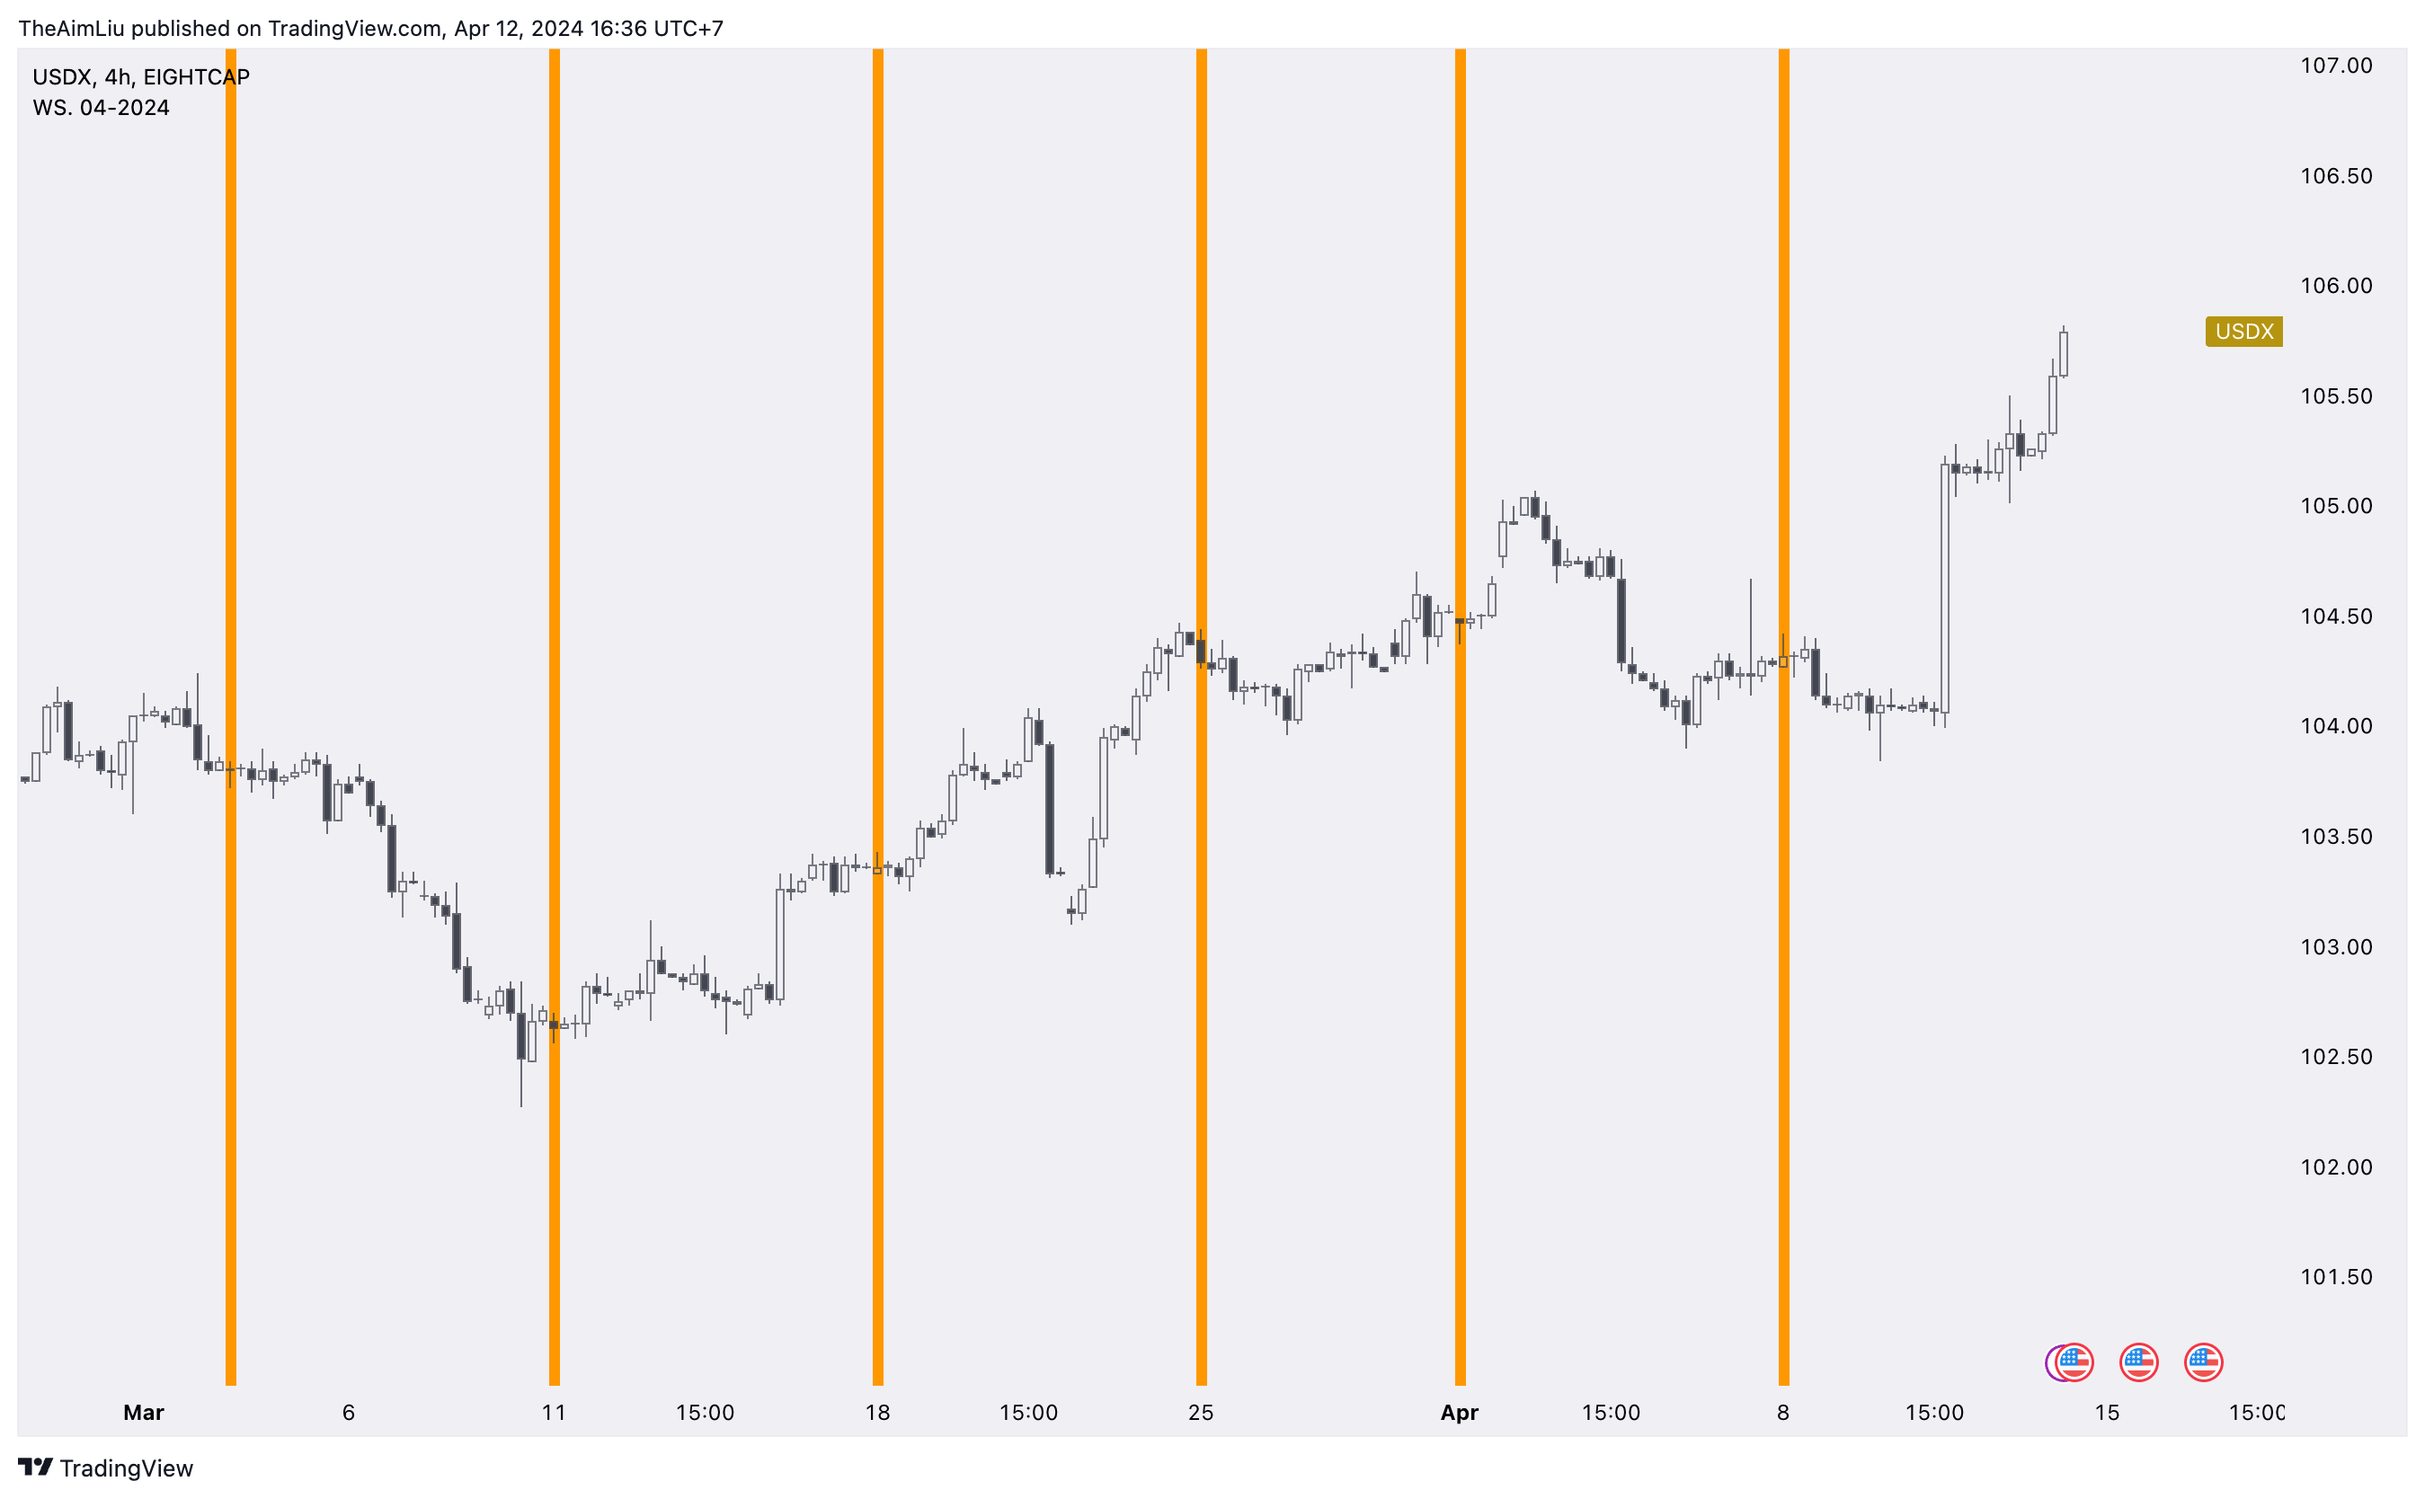
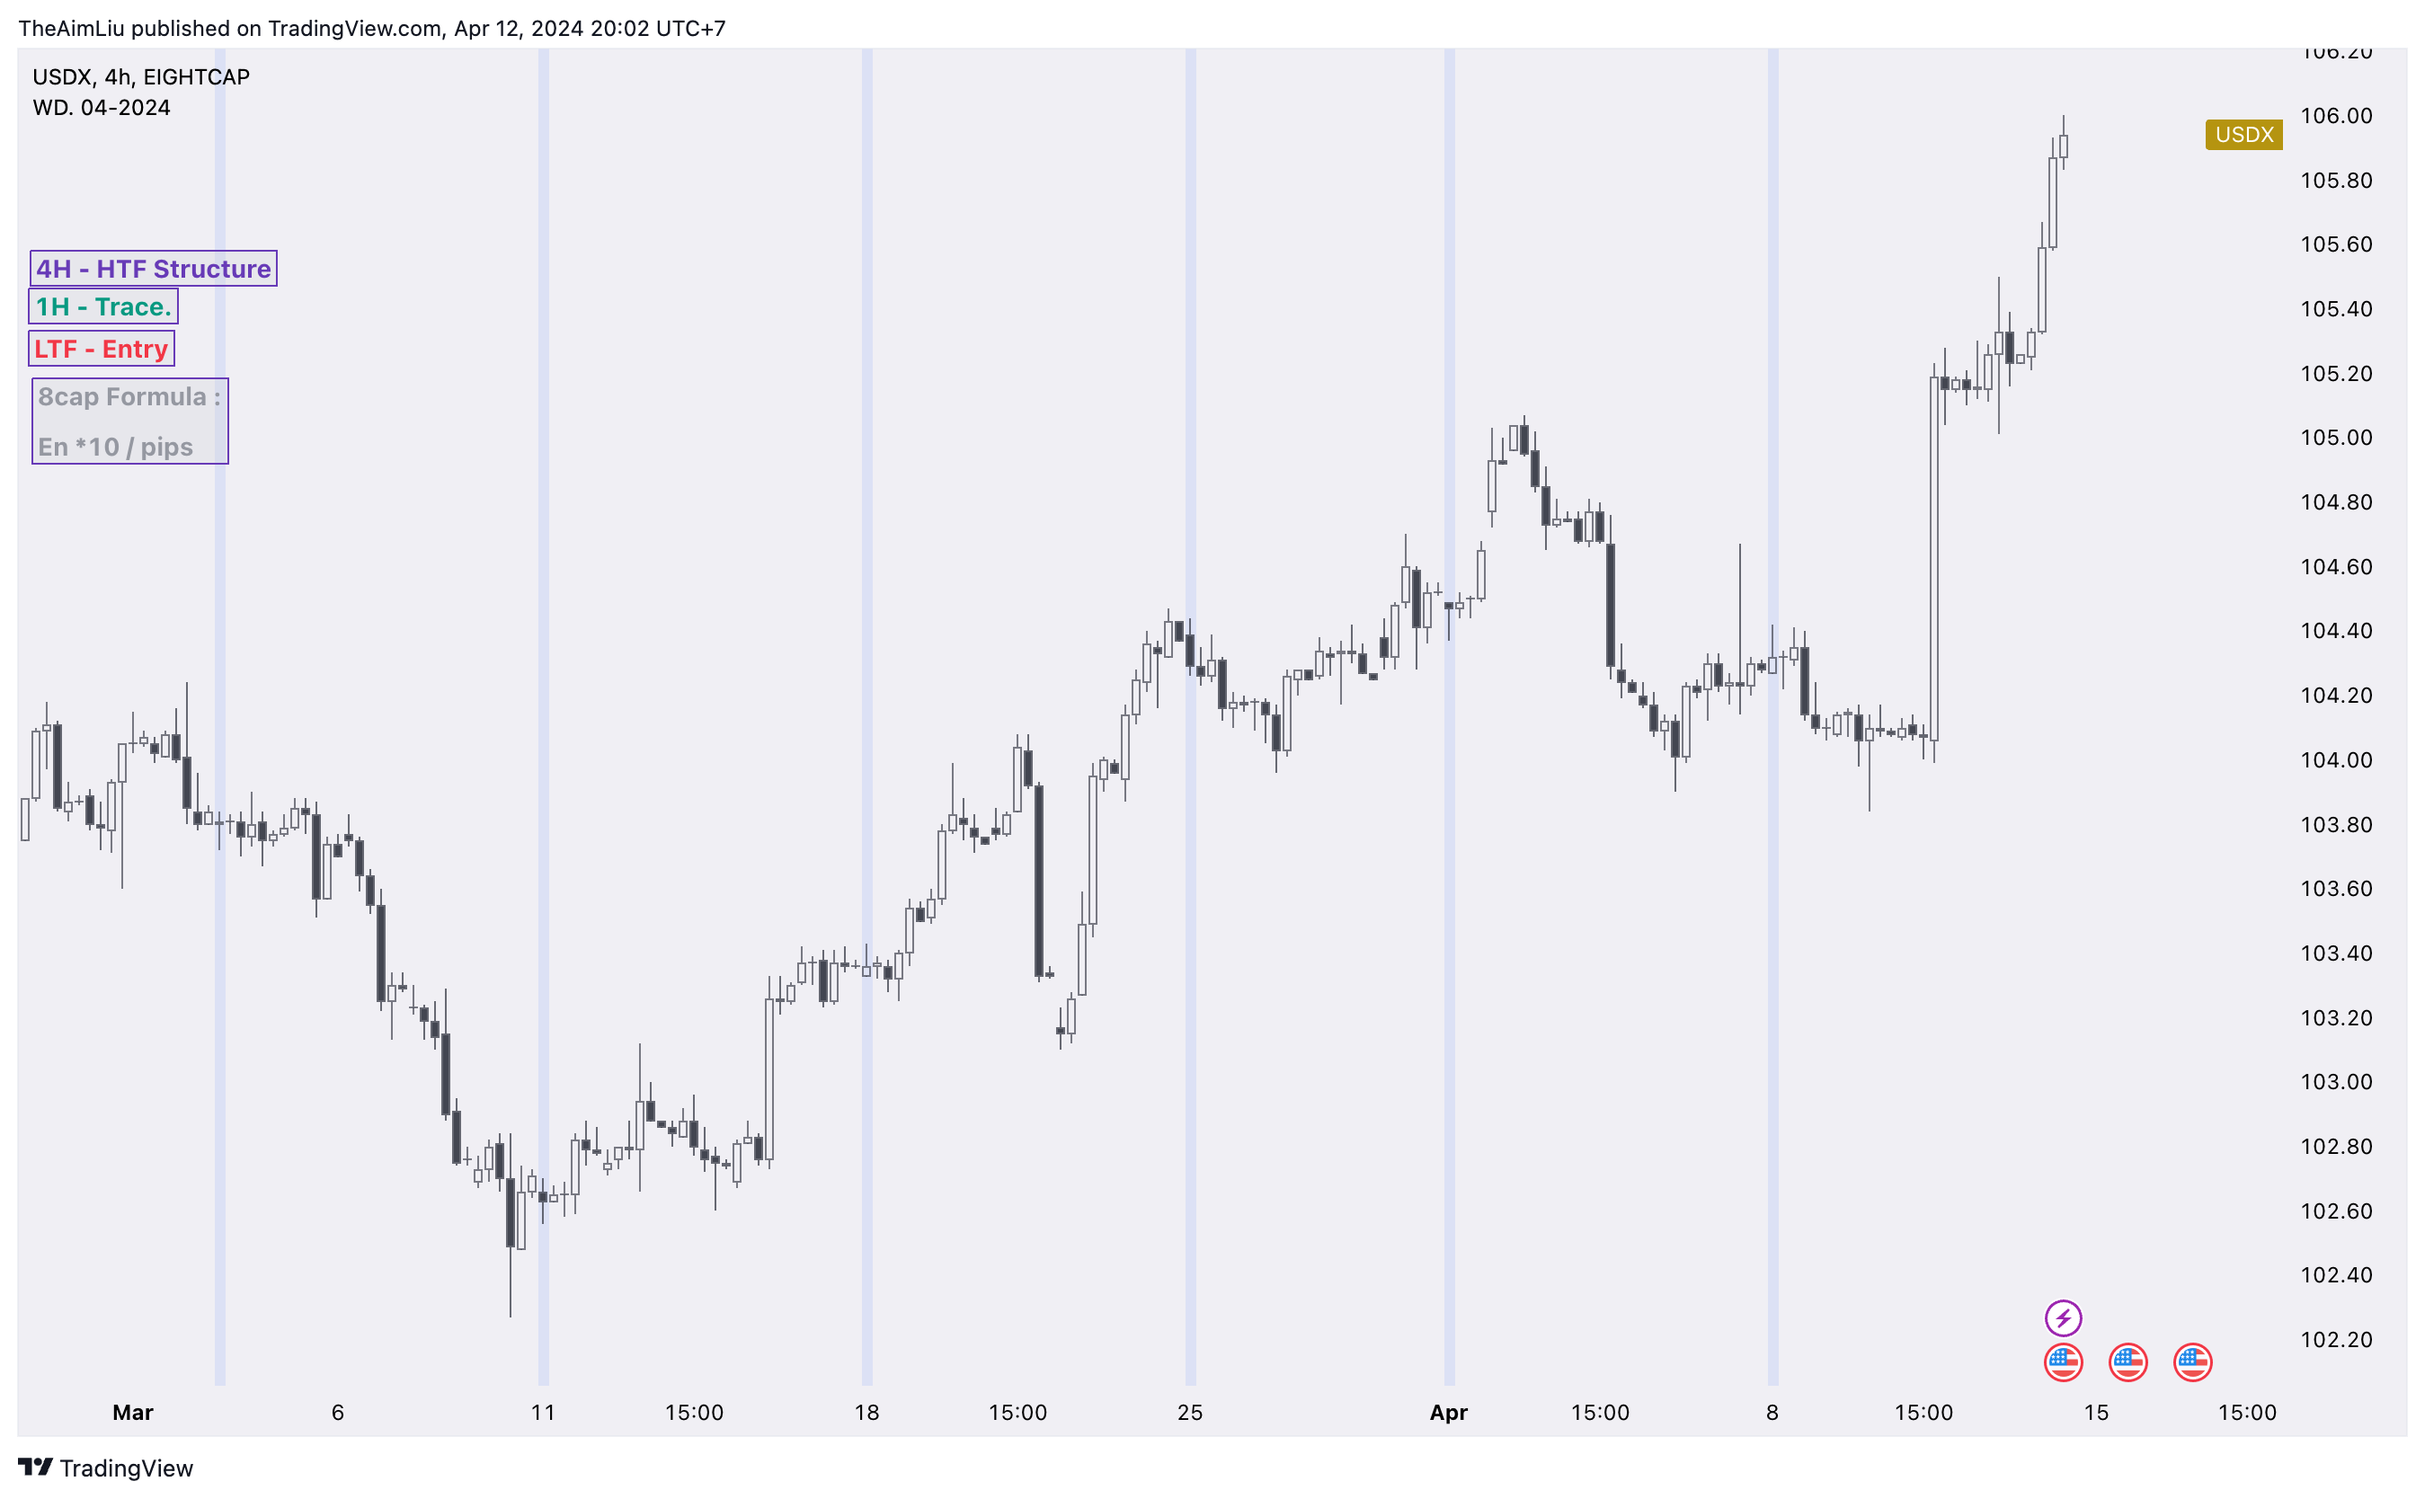
week div v1

diff --git a/PA_SwingTrade/week_divider/readme.md b/PA_SwingTrade/week_divider/readme.md
@@ -2,4 +2,4 @@
 
 ![WD](week_divider.png)
 
-simple week divider using bgcolor
+simple week divider using bgcolor()
